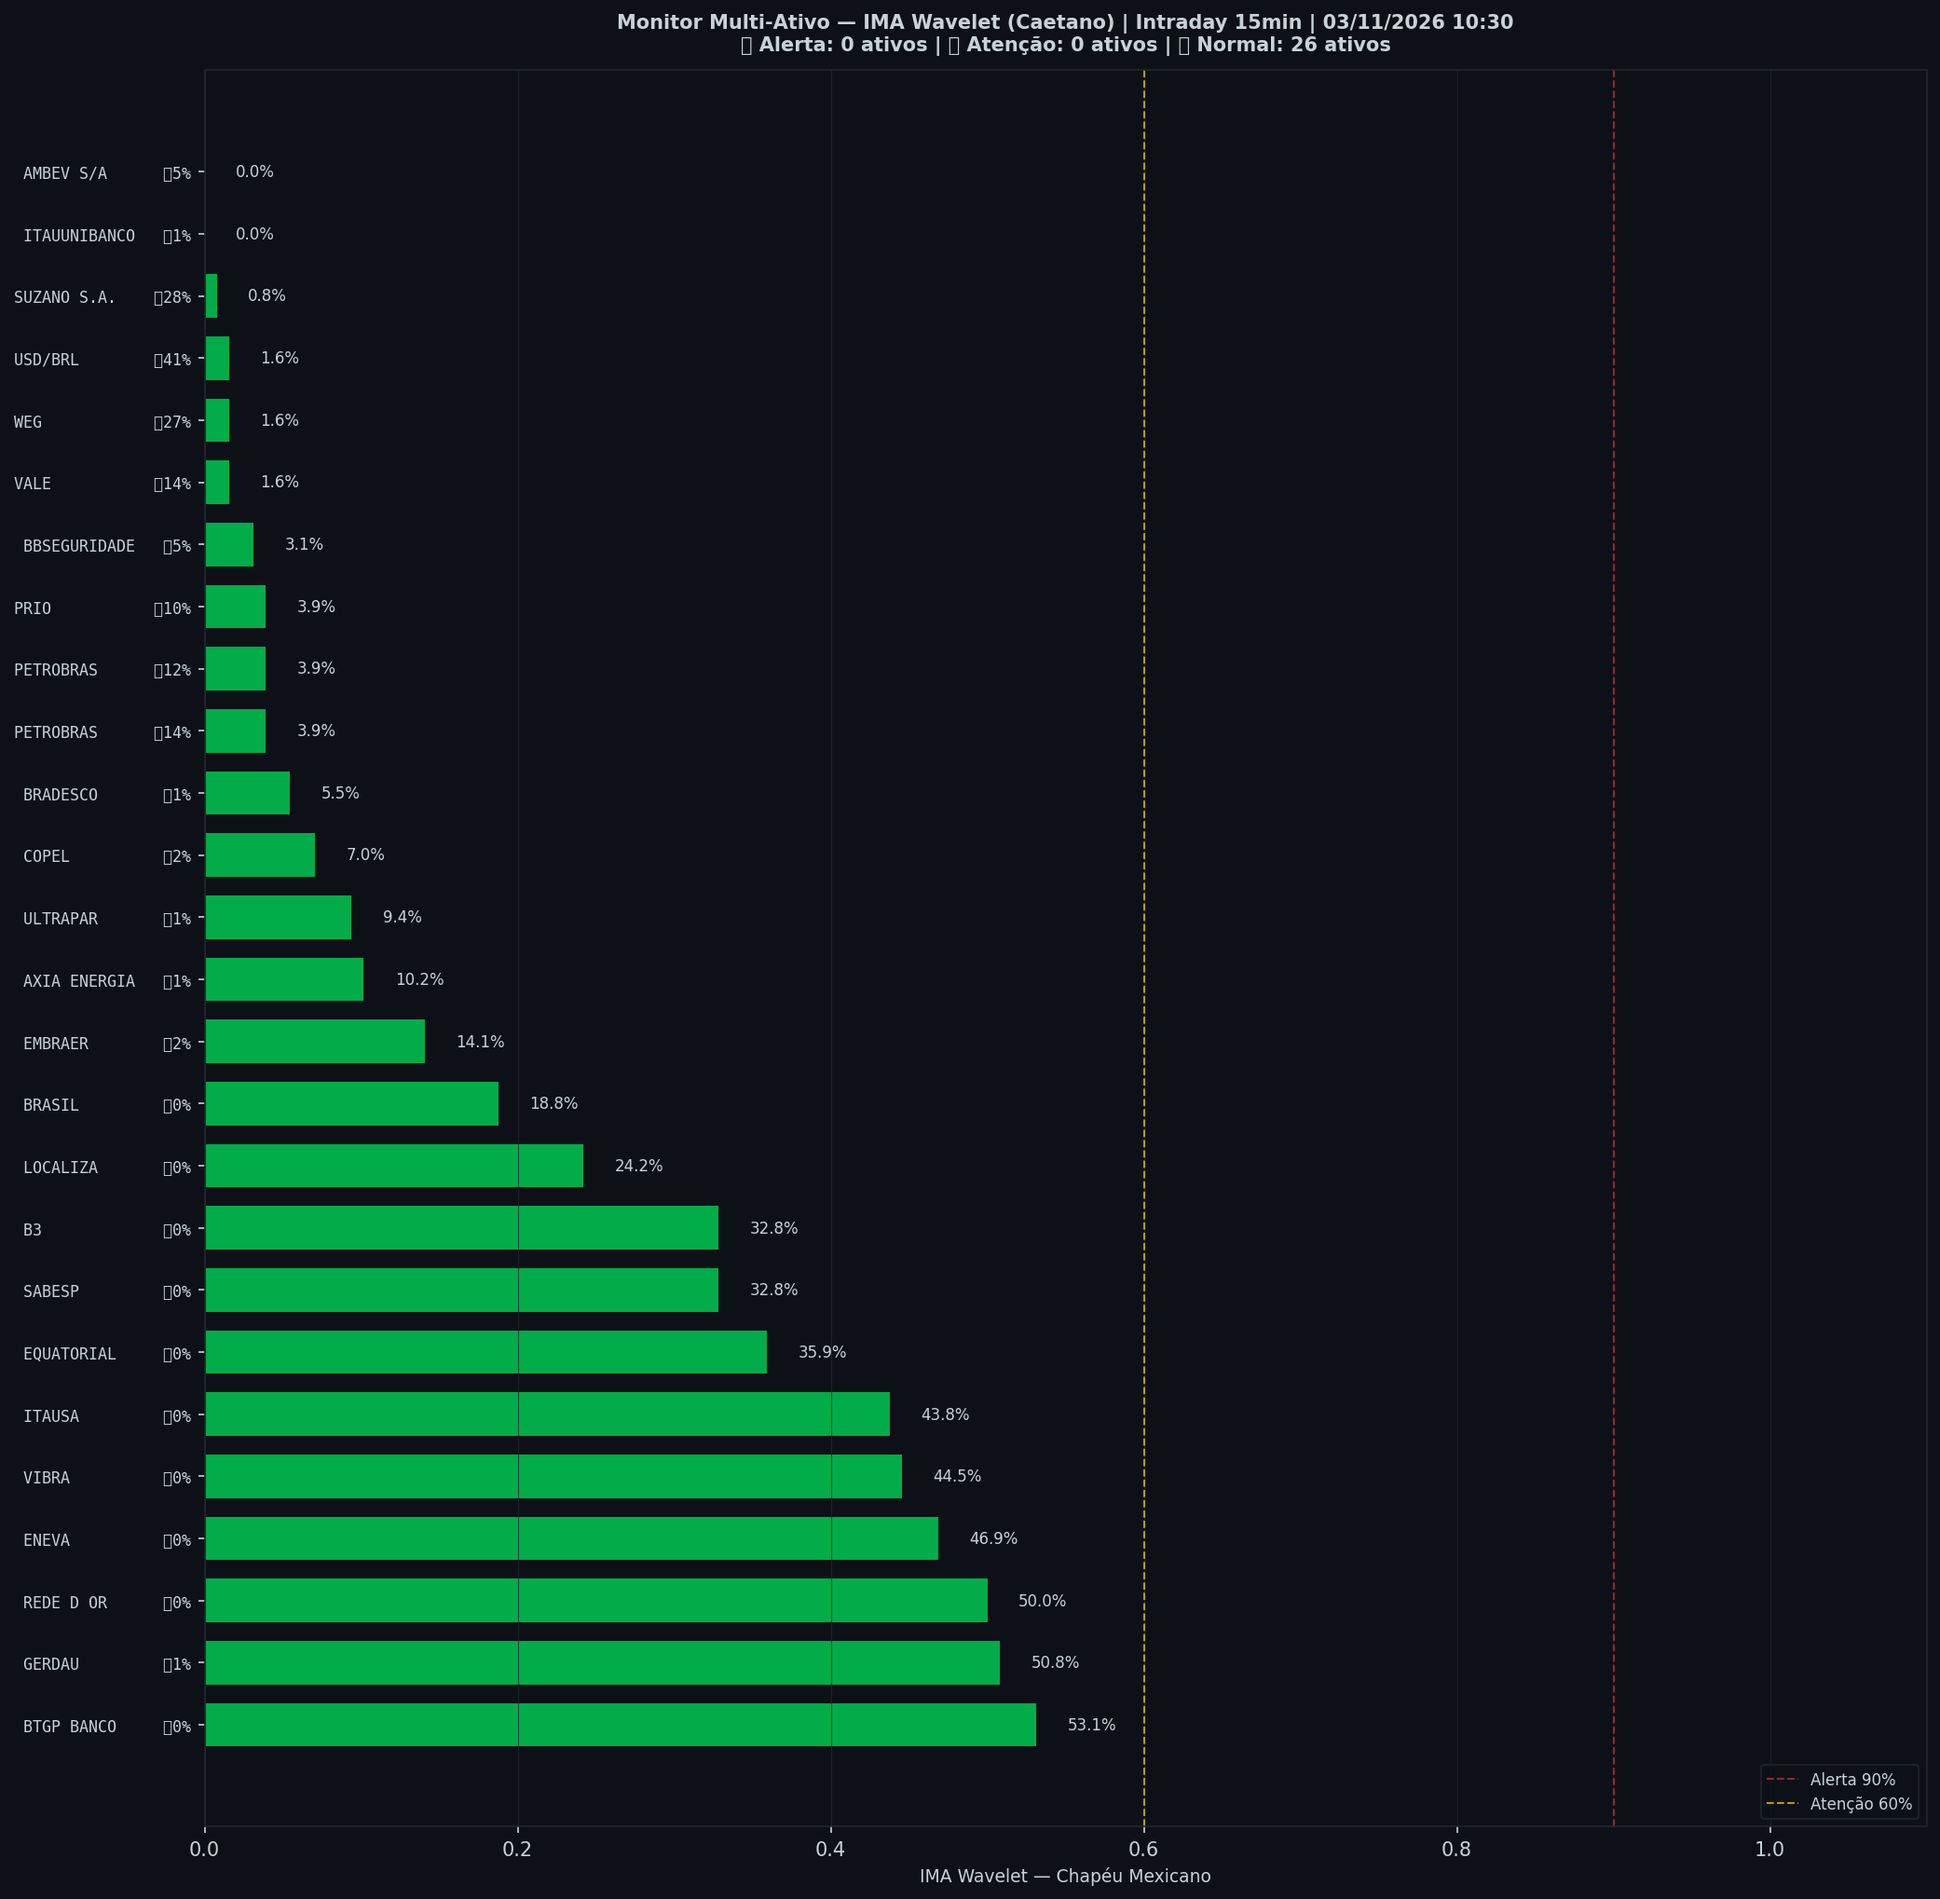
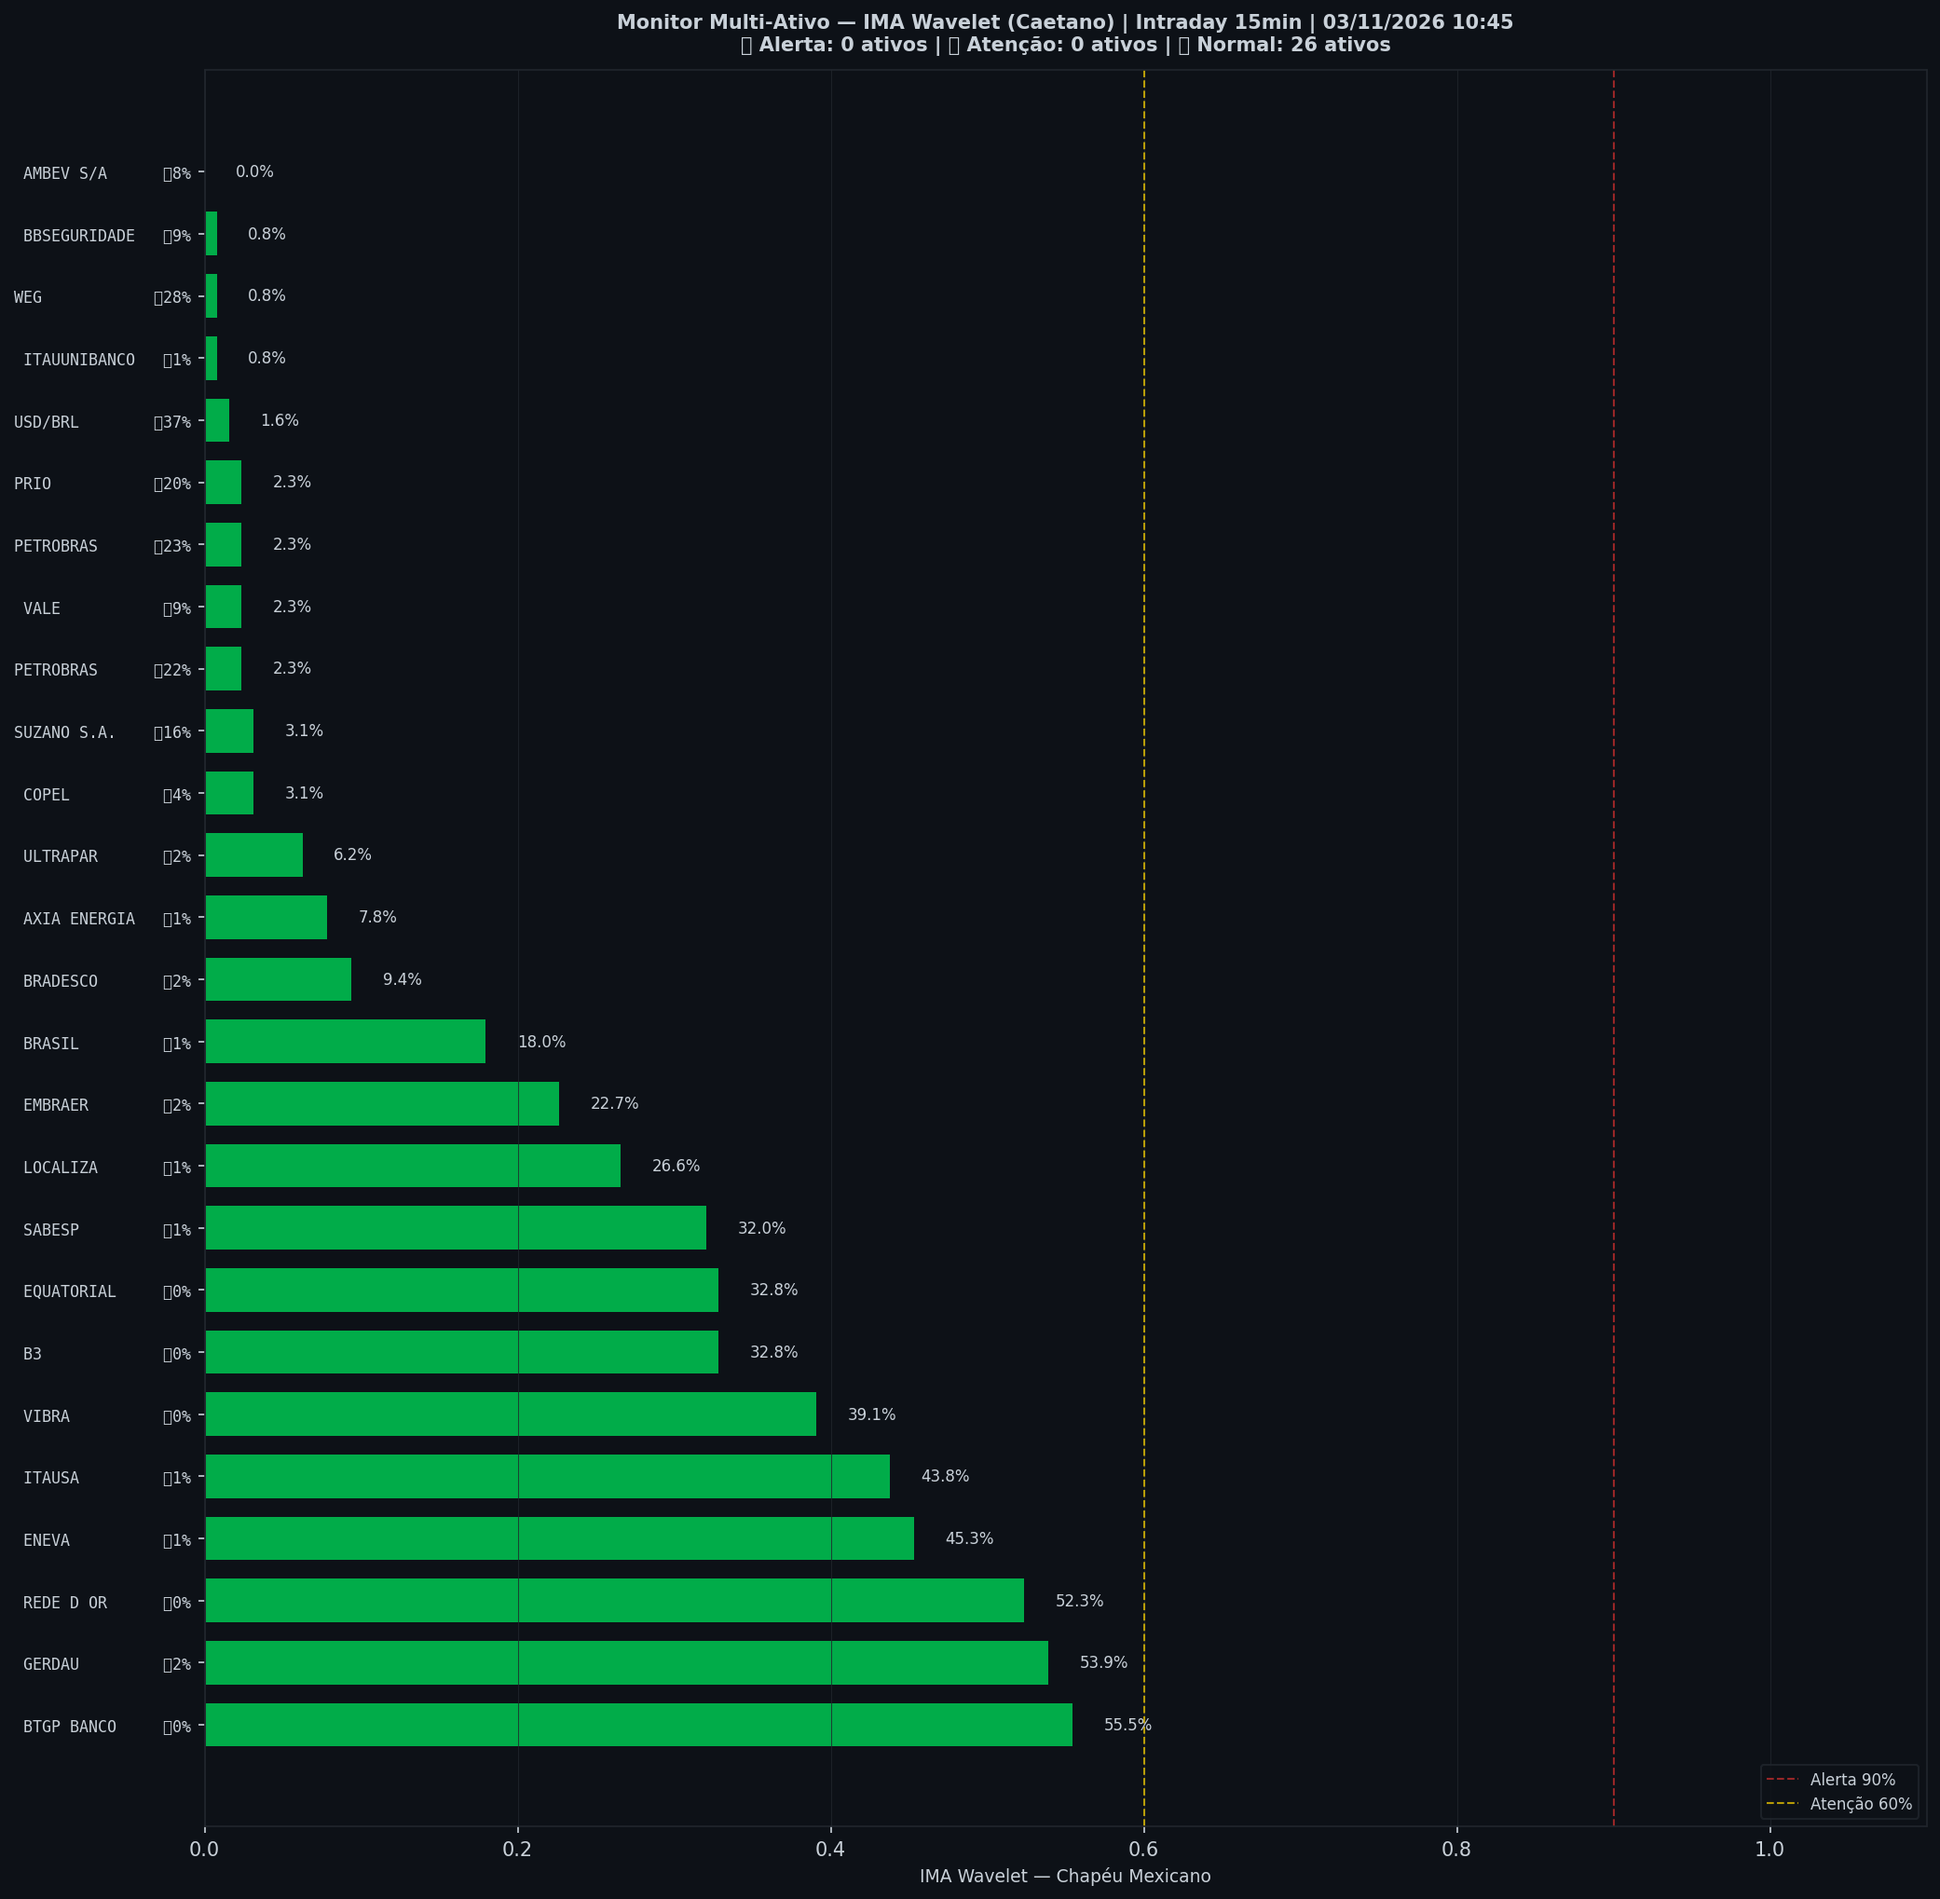
🤖 Auto: Sinal 03/11/2026 10:45

diff --git a/content/intraday/2026-11-03.md b/content/intraday/2026-11-03.md
@@ -1,11 +1,11 @@
 ---
-title: "🟢 Intraday 03/11/2026 10:15 BRT — VERDE"
+title: "🟢 Intraday 03/11/2026 10:30 BRT — VERDE"
 date: 2026-11-03
 tags: [intraday]
 ---
 
-> [!success] Onde o mercado está agora (03/11 10:15, candles de 15 min): **🟢 Calmo**
-> `Pânico ◀────────────●────────▶ Euforia`
+> [!success] Onde o mercado está agora (03/11 10:30, candles de 15 min): **🟢 Calmo**
+> `Pânico ◀───────────●─────────▶ Euforia`
 >
 > O Ibovespa está dentro da sua faixa normal, sem excesso para cima nem para baixo.
 > No gráfico diário: 📉 Esticamento desinflando.
@@ -20,8 +20,8 @@ tags: [intraday]
 > | 📍 **Sinais** | hoje: 2 sinal(is), 1 forte(s) | [abrir](sinais-topo-fundo/) |
 > | 🧪 **Placar ao vivo** | 1 operação(ões), 0 com lucro, soma -0,8% | [abrir](operacoes/) |
 
-> [!success] IMA Intraday · 15 min (03/11 10:15): 🟢 **VERDE** — Risco 20% · ▼ -3 p.p. vs leitura anterior
-> `████░░░░░░░░░░░░░░░░`
+> [!success] IMA Intraday · 15 min (03/11 10:30): 🟢 **VERDE** — Risco 13% · ▼ -7 p.p. vs leitura anterior
+> `███░░░░░░░░░░░░░░░░░`
 > Preço na faixa normal em torno da tendência.
 
 
@@ -32,13 +32,13 @@ tags: [intraday]
 >
 > *Leitura educacional baseada em 26 anos de dados, não recomendação. [Como usar](../metodologia/crise#3-como-usar-na-prática).*
 
-| Indicador — IMA Intraday · 15 min (03/11 10:15) | Valor |
+| Indicador — IMA Intraday · 15 min (03/11 10:30) | Valor |
 |---|---|
-| 🔴 ζ Topo — preço esticado acima da tendência | **20%** |
+| 🔴 ζ Topo — preço esticado acima da tendência | **13%** |
 | 🔵 ζ Fundo — preço esticado abaixo da tendência | 1% |
 | 🫧 LPPL bolha — alta super-exponencial (risco de crash) | 0% |
 | 🫧 LPPL antibolha — queda super-exponencial (risco de repique) | 0% |
-| 📊 Ibovespa | 166.119 pts |
+| 📊 Ibovespa | 165.777 pts |
 
 ![Gráfico do sinal](../graficos/sinal_intraday.png)
 
@@ -46,6 +46,7 @@ tags: [intraday]
 
 | Data | Zona | Evento | Risco | ζ Topo | ζ Fundo | LPPL |
 |---|---|---|---|---|---|---|
+| 2026-11-03 10:30 | 🟢 VERDE |  | **13%** | 13% | 1% | 0% |
 | 2026-11-03 10:15 | 🟢 VERDE |  | **20%** | 20% | 1% | 0% |
 | 2026-11-03 10:00 | 🟢 VERDE |  | **23%** | 23% | 0% | 0% |
 | 2026-10-30 17:15 | 🟢 VERDE |  | **55%** | 55% | 0% | 0% |
@@ -75,7 +76,6 @@ tags: [intraday]
 | 2026-10-30 11:15 | 🟢 VERDE |  | **1%** | 1% | 31% | 0% |
 | 2026-10-30 11:00 | 🟢 VERDE |  | **0%** | 0% | 31% | 0% |
 | 2026-10-30 10:45 | 🟢 VERDE |  | **0%** | 0% | 32% | 0% |
-| 2026-10-30 10:30 | 🟢 VERDE |  | **1%** | 1% | 31% | 0% |
 
 <small>Destaques: 🟡 ≥ 60% · 🔴 ≥ 90% (Risco e ζ Topo) · 🔵 ≥ 60% · 🔪 ≥ 90% (ζ Fundo) · 🫧 ≥ 30% · 🫧🔴 ≥ 50% (LPPL)</small>
 
@@ -85,38 +85,38 @@ tags: [intraday]
 
 | Zona | Ativo | Setor | ζ Topo | ζ Fundo |
 |---|---|---|---|---|
-| 🟢 | **BTGP BANCO** | Financeiro | 53.1% | 0.0% |
-| 🟢 | **GERDAU** | Siderurgia | 50.8% | 0.8% |
-| 🟢 | **REDE D OR** | Saúde | 50.0% | 0.0% |
-| 🟢 | **ENEVA** | Energia | 46.9% | 0.0% |
-| 🟢 | **VIBRA** | Energia | 44.5% | 0.0% |
-| 🟢 | **ITAUSA** | Financeiro | 43.8% | 0.0% |
-| 🟢 | **USD/BRL** | Câmbio | 1.6% | 40.6% |
-| 🟢 | **EQUATORIAL** | Energia | 35.9% | 0.0% |
-| 🟢 | **SABESP** | Saneamento | 32.8% | 0.0% |
+| 🟢 | **BTGP BANCO** | Financeiro | 55.5% | 0.0% |
+| 🟢 | **GERDAU** | Siderurgia | 53.9% | 1.6% |
+| 🟢 | **REDE D OR** | Saúde | 52.3% | 0.0% |
+| 🟢 | **ENEVA** | Energia | 45.3% | 0.8% |
+| 🟢 | **ITAUSA** | Financeiro | 43.8% | 0.8% |
+| 🟢 | **VIBRA** | Energia | 39.1% | 0.0% |
+| 🟢 | **USD/BRL** | Câmbio | 1.6% | 36.7% |
 | 🟢 | **B3** | Financeiro | 32.8% | 0.0% |
-| 🟢 | **SUZANO S.A.** | Papel/Celulose | 0.8% | 28.1% |
-| 🟢 | **WEG** | Industrial | 1.6% | 26.6% |
-| 🟢 | **LOCALIZA** | Aluguel | 24.2% | 0.0% |
-| 🟢 | **BRASIL** | Financeiro | 18.8% | 0.0% |
-| 🟢 | **PETROBRAS** | Petróleo | 3.9% | 14.1% |
-| 🟢 | **VALE** | Mineração | 1.6% | 14.1% |
-| 🟢 | **EMBRAER** | Outros | 14.1% | 2.3% |
-| 🟢 | **PETROBRAS** | Petróleo | 3.9% | 12.5% |
-| 🟢 | **AXIA ENERGIA** | Energia | 10.2% | 0.8% |
-| 🟢 | **PRIO** | Petróleo | 3.9% | 10.2% |
-| 🟢 | **ULTRAPAR** | Outros | 9.4% | 0.8% |
-| 🟢 | **COPEL** | Energia | 7.0% | 1.6% |
-| 🟢 | **BRADESCO** | Financeiro | 5.5% | 0.8% |
-| 🟢 | **AMBEV S/A** | Consumo | 0.0% | 4.7% |
-| 🟢 | **BBSEGURIDADE** | Financeiro | 3.1% | 4.7% |
-| 🟢 | **ITAUUNIBANCO** | Financeiro | 0.0% | 0.8% |
+| 🟢 | **EQUATORIAL** | Energia | 32.8% | 0.0% |
+| 🟢 | **SABESP** | Saneamento | 32.0% | 0.8% |
+| 🟢 | **WEG** | Industrial | 0.8% | 28.1% |
+| 🟢 | **LOCALIZA** | Aluguel | 26.6% | 0.8% |
+| 🟢 | **PETROBRAS** | Petróleo | 2.3% | 22.7% |
+| 🟢 | **EMBRAER** | Outros | 22.7% | 2.3% |
+| 🟢 | **PETROBRAS** | Petróleo | 2.3% | 21.9% |
+| 🟢 | **PRIO** | Petróleo | 2.3% | 20.3% |
+| 🟢 | **BRASIL** | Financeiro | 18.0% | 0.8% |
+| 🟢 | **SUZANO S.A.** | Papel/Celulose | 3.1% | 16.4% |
+| 🟢 | **BRADESCO** | Financeiro | 9.4% | 1.6% |
+| 🟢 | **VALE** | Mineração | 2.3% | 8.6% |
+| 🟢 | **BBSEGURIDADE** | Financeiro | 0.8% | 8.6% |
+| 🟢 | **AXIA ENERGIA** | Energia | 7.8% | 0.8% |
+| 🟢 | **AMBEV S/A** | Consumo | 0.0% | 7.8% |
+| 🟢 | **ULTRAPAR** | Outros | 6.2% | 2.3% |
+| 🟢 | **COPEL** | Energia | 3.1% | 3.9% |
+| 🟢 | **ITAUUNIBANCO** | Financeiro | 0.8% | 0.8% |
 
 <small>Destaques: 🟡 ≥ 60% · 🔴 ≥ 90% (Risco e ζ Topo) · 🔵 ≥ 60% · 🔪 ≥ 90% (ζ Fundo) · 🫧 ≥ 30% · 🫧🔴 ≥ 50% (LPPL)</small>
 
 ![Monitor multi-ativo](../graficos/multi_intraday.png)
 
-*Página atualizada em 03/11/2026 10:30 BRT (leitura da barra de 2026-11-03 10:15 BRT).*
+*Página atualizada em 03/11/2026 10:45 BRT (leitura da barra de 2026-11-03 10:30 BRT).*
 
 > [!warning] O que este indicador não faz
 > Medido em 5 anos de Ibovespa, o ζ **não antecipa** topos nem fundos: a capacidade de separar o que sobe do que cai ficou em 0,49–0,52, e 0,50 é moeda jogada ao ar. Ele descreve o estado de agora; não é aviso do que vem. As zonas verde/amarelo/vermelho continuam na página como descrição desse estado — **não as use como sinal de entrada ou saída**.

diff --git a/content/index.md b/content/index.md
@@ -6,10 +6,10 @@ tags: [home]
 
 **As ondas do mercado, explicadas.** Leitura do Ibovespa com estatística de 26 anos, baseada no trabalho de pesquisadores e traders reconhecidos e adaptada por Jarbas Daniel da Costa.
 
-*Última atualização: 03/11/2026 10:30 BRT · Intraday 15min*
+*Última atualização: 03/11/2026 10:45 BRT · Intraday 15min*
 
-> [!success] Onde o mercado está agora (03/11 10:15, candles de 15 min): **🟢 Calmo**
-> `Pânico ◀────────────●────────▶ Euforia`
+> [!success] Onde o mercado está agora (03/11 10:30, candles de 15 min): **🟢 Calmo**
+> `Pânico ◀───────────●─────────▶ Euforia`
 >
 > O Ibovespa está dentro da sua faixa normal, sem excesso para cima nem para baixo.
 > No gráfico diário: 📉 Esticamento desinflando.
@@ -20,7 +20,7 @@ tags: [home]
 
 | Módulo | Agora | |
 |---|---|---|
-| 🌊 **Sinal de Crise** | 🟢 VERDE · 🟢 calmo · ζ Topo 20% | [relatório](intraday/2026-11-03) |
+| 🌊 **Sinal de Crise** | 🟢 VERDE · 🟢 calmo · ζ Topo 13% | [relatório](intraday/2026-11-03) |
 | 📈 **Tendência MME9** | Diário — fora<br>Semanal ⚡ saiu hoje às 10:00 a 167.008 (confirma às 19h) | [abrir](operacoes/tendencia) |
 | 🎯 **Entradas do método** | ⏳ aguardando: Diário · Nadaraya, H4 · Semáforo N2, Diário · Semáforo N3 após ζ Fundo | [abrir](operacoes/entradas) |
 | 📍 **Sinais** | hoje: 2 sinal(is), 1 forte(s) | [abrir](sinais-topo-fundo/) |
@@ -61,18 +61,18 @@ tags: [home]
 > *Leitura educacional baseada em 26 anos de dados, não recomendação. [Como usar](metodologia/crise#3-como-usar-na-prática).*
 
 > [!info]- 🌊 Detalhes do Sinal de Crise (indicadores e últimos 7 pregões)
-> > [!success] IMA Intraday · 15 min (03/11 10:15): 🟢 **VERDE** — Risco 20% · ▼ -3 p.p. vs leitura anterior
-> > `████░░░░░░░░░░░░░░░░`
+> > [!success] IMA Intraday · 15 min (03/11 10:30): 🟢 **VERDE** — Risco 13% · ▼ -7 p.p. vs leitura anterior
+> > `███░░░░░░░░░░░░░░░░░`
 > > Preço na faixa normal em torno da tendência.
 >
 >
-> | Indicador — IMA Intraday · 15 min (03/11 10:15) | Valor |
+> | Indicador — IMA Intraday · 15 min (03/11 10:30) | Valor |
 > |---|---|
-> | 🔴 ζ Topo — preço esticado acima da tendência | **20%** |
+> | 🔴 ζ Topo — preço esticado acima da tendência | **13%** |
 > | 🔵 ζ Fundo — preço esticado abaixo da tendência | 1% |
 > | 🫧 LPPL bolha — alta super-exponencial (risco de crash) | 0% |
 > | 🫧 LPPL antibolha — queda super-exponencial (risco de repique) | 0% |
-> | 📊 Ibovespa | 166.119 pts |
+> | 📊 Ibovespa | 165.777 pts |
 >
 > **Multi-ativo:** 0% em tensão (0🔴 0🟡 de 26 ativos)
 >
@@ -80,7 +80,7 @@ tags: [home]
 >
 > | Data | Zona | Risco | ζ Topo | ζ Fundo | LPPL |
 > |---|---|---|---|---|---|
-> | [03/11/2026](intraday/2026-11-03) | 🟢 VERDE | **20%** | 20% | 1% | 0% |
+> | [03/11/2026](intraday/2026-11-03) | 🟢 VERDE | **13%** | 13% | 1% | 0% |
 > | [30/10/2026](intraday/2026-10-30) | 🟢 VERDE | **55%** | 55% | 0% | 0% |
 >
 > <small>Destaques: 🟡 ≥ 60% · 🔴 ≥ 90% (Risco e ζ Topo) · 🔵 ≥ 60% · 🔪 ≥ 90% (ζ Fundo) · 🫧 ≥ 30% · 🫧🔴 ≥ 50% (LPPL)</small>

diff --git a/content/historico.md b/content/historico.md
@@ -5,7 +5,7 @@ tags: [historico]
 
 # 📜 Histórico de leituras (v5)
 
-**2.077 leituras** desde 2026-07-03. Na página ficam os últimos 3 dias leitura por leitura e o resumo de cada dia anterior; o registro inteiro está no arquivo para baixar.
+**2.078 leituras** desde 2026-07-03. Na página ficam os últimos 3 dias leitura por leitura e o resumo de cada dia anterior; o registro inteiro está no arquivo para baixar.
 
 [**Baixar o histórico completo**](historico-completo.csv) (91 KB · abre no Excel e no LibreOffice)
 
@@ -16,6 +16,7 @@ tags: [historico]
 
 | Data | Modo | Zona | Risco | IMA | LPPL |
 |---|---|---|---|---|---|
+| 2026-11-03 10:30 | intraday | 🟢 VERDE | 13% | 13% | 0% |
 | 2026-11-03 10:15 | intraday | 🟢 VERDE | 20% | 20% | 0% |
 | 2026-11-03 10:00 | intraday | 🟢 VERDE | 23% | 23% | 0% |
 | 2026-10-30 17:15 | intraday | 🟢 VERDE | 55% | 55% | 0% |

diff --git a/content/operacoes/ranking.md b/content/operacoes/ranking.md
@@ -5,7 +5,7 @@ tags: [operacoes]
 description: "As regras de compra do site ordenadas pelo resultado, com treino, teste e placar ao vivo"
 ---
 
-*Atualizado 03/11/2026 10:30 · histórico simulado com as regras congeladas em 23/10/2026 + placar ao vivo.*
+*Atualizado 03/11/2026 10:45 · histórico simulado com as regras congeladas em 23/10/2026 + placar ao vivo.*
 
 As regras de compra do site, **da que mais rendeu para a que menos rendeu**. O resultado é por operação, no índice à vista, sem custos e sem juros compostos (a soma é só a soma das operações). **Treino** = entradas de 2001 a 2013 e **teste** = 2014 em diante: uma regra só é confiável se ganhou nos dois. O único resultado sem nenhum ajuste ao histórico é o **placar ao vivo**.
 

diff --git a/content/linha-do-tempo/index.md b/content/linha-do-tempo/index.md
@@ -5,7 +5,7 @@ description: "Todo sinal, ordem, stop e aviso do Pêndulo de Mercado, do mais re
 tags: [eventos]
 ---
 
-*Atualizada 03/11/2026 10:30 BRT · a cada 15 min no pregão e às 19h.*
+*Atualizada 03/11/2026 10:45 BRT · a cada 15 min no pregão e às 19h.*
 
 Tudo o que o sistema fez ou detectou, **do mais recente para o mais antigo**: sinais de topo e fundo, ordens de compra e de venda armadas, compras, vendas, stops, avisos de 🚨 preço perto do nível e mudanças da Crise. Os **últimos 7 dias** ficam abertos; o resto, por **ano → mês → dia**.
 
